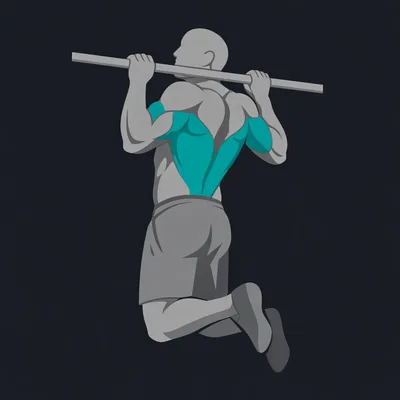
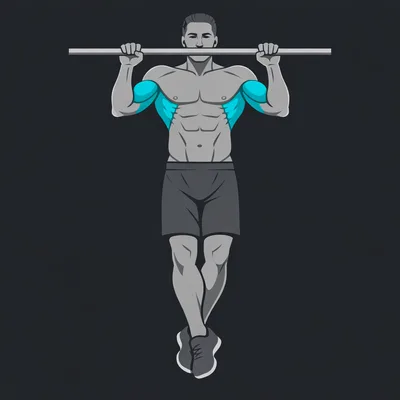
Fix plan init order + correct male pull-up standard image
- Plan was generating before tiers loaded → defaulted to beginner (1 rep)
- Moved loadPlan() call to after initTierSystem so getEffectiveMax()
  sees the correct tier data
- Replaced male standard pull-up: front-facing view with bar clearly
  in front of body (was behind neck from rear angle)

Changed region(s): [[0.15, 0.03, 0.84, 0.96]]

diff --git a/index.html b/index.html
@@ -3748,7 +3748,7 @@ document.getElementById('exportData').addEventListener('click', () => {
 renderCalendar();
 
 // ─── Plan + Progress Init ───
-loadPlan();
+// Note: loadPlan() is deferred until after tier system initializes (see below)
 checkPlanAdvancement();
 setTimeout(() => updateNextSetCard(), 0);
 
@@ -4900,6 +4900,10 @@ function showGtgTip() {
     if (state.tiers && state.tiers.assessed) {
       setExercise(state.exercise);
     }
+    // Now that tiers are loaded, generate plan with correct max estimation
+    loadPlan();
+    checkPlanAdvancement();
+    setTimeout(() => updateNextSetCard(), 0);
   };
 
   // Observe appShell visibility
